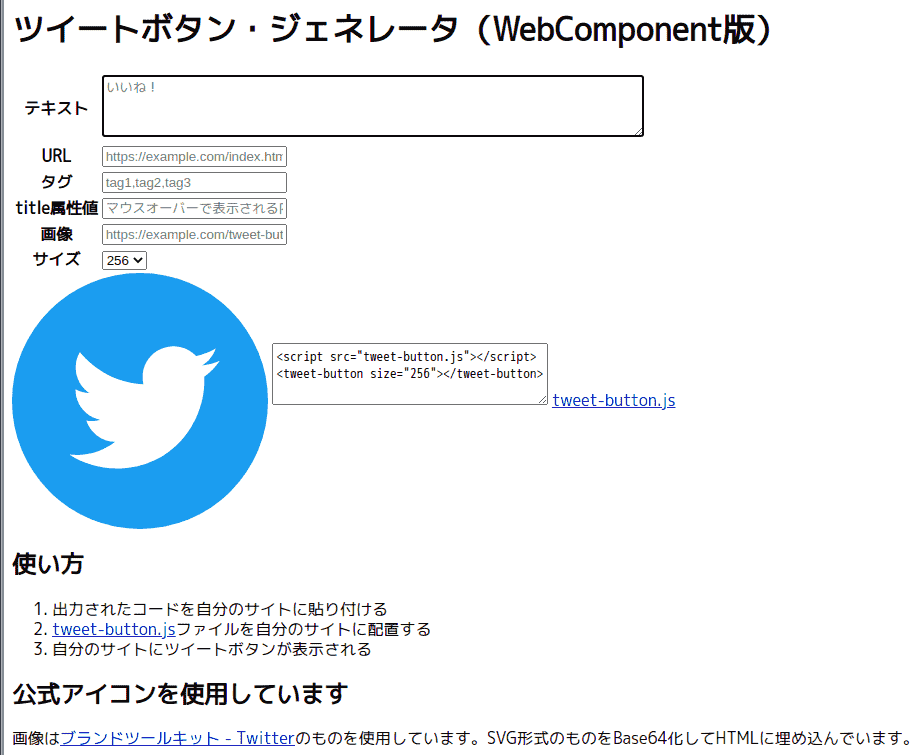
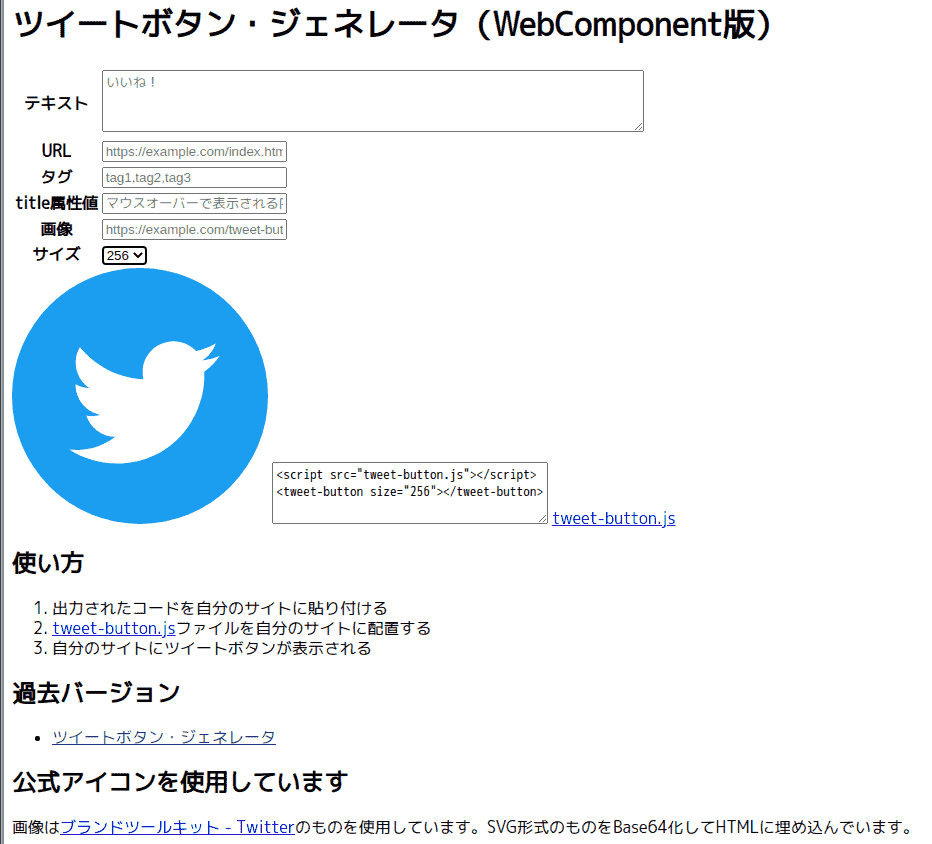
過去バージョンへのリンクを追加。アイキャッチ画像更新。

Changed region(s): [[0.0, 0.0, 1.0, 1.0]]

diff --git a/docs/index.html b/docs/index.html
@@ -100,6 +100,11 @@
     <li>自分のサイトにツイートボタンが表示される</li>
 </ol>
 
+<h2>過去バージョン</h2>
+<ul>
+<li><a href="https://ytyaru.github.io/Html.Tweet.Button.Generator.20220606171017/">ツイートボタン・ジェネレータ</a></li>
+</ul>
+
 <h2>公式アイコンを使用しています</h2>
 <p>画像は<a href="https://about.twitter.com/ja/who-we-are/brand-toolkit">ブランドツールキット - Twitter</a>のものを使用しています。SVG形式のものをBase64化してHTMLに埋め込んでいます。</p>
 
